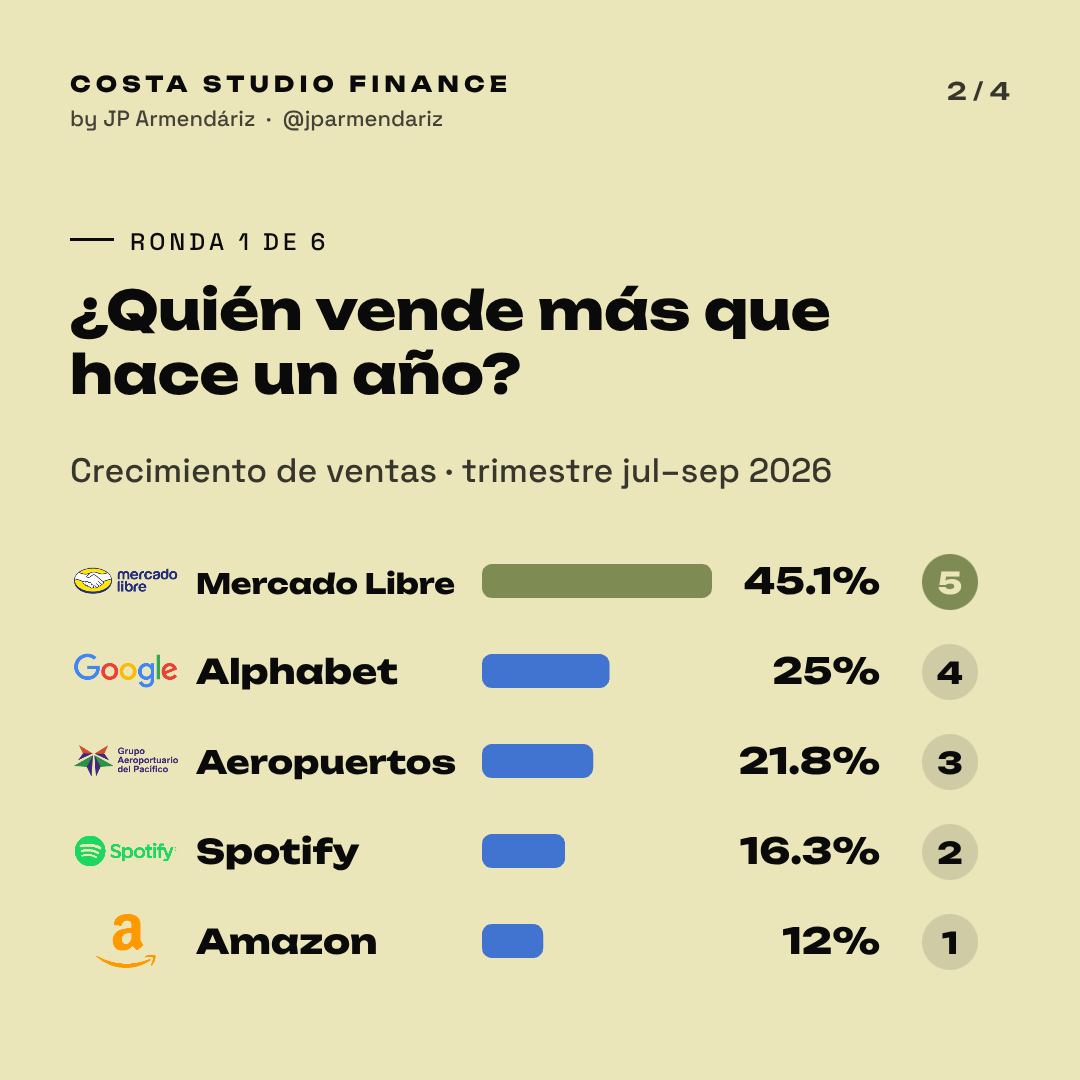
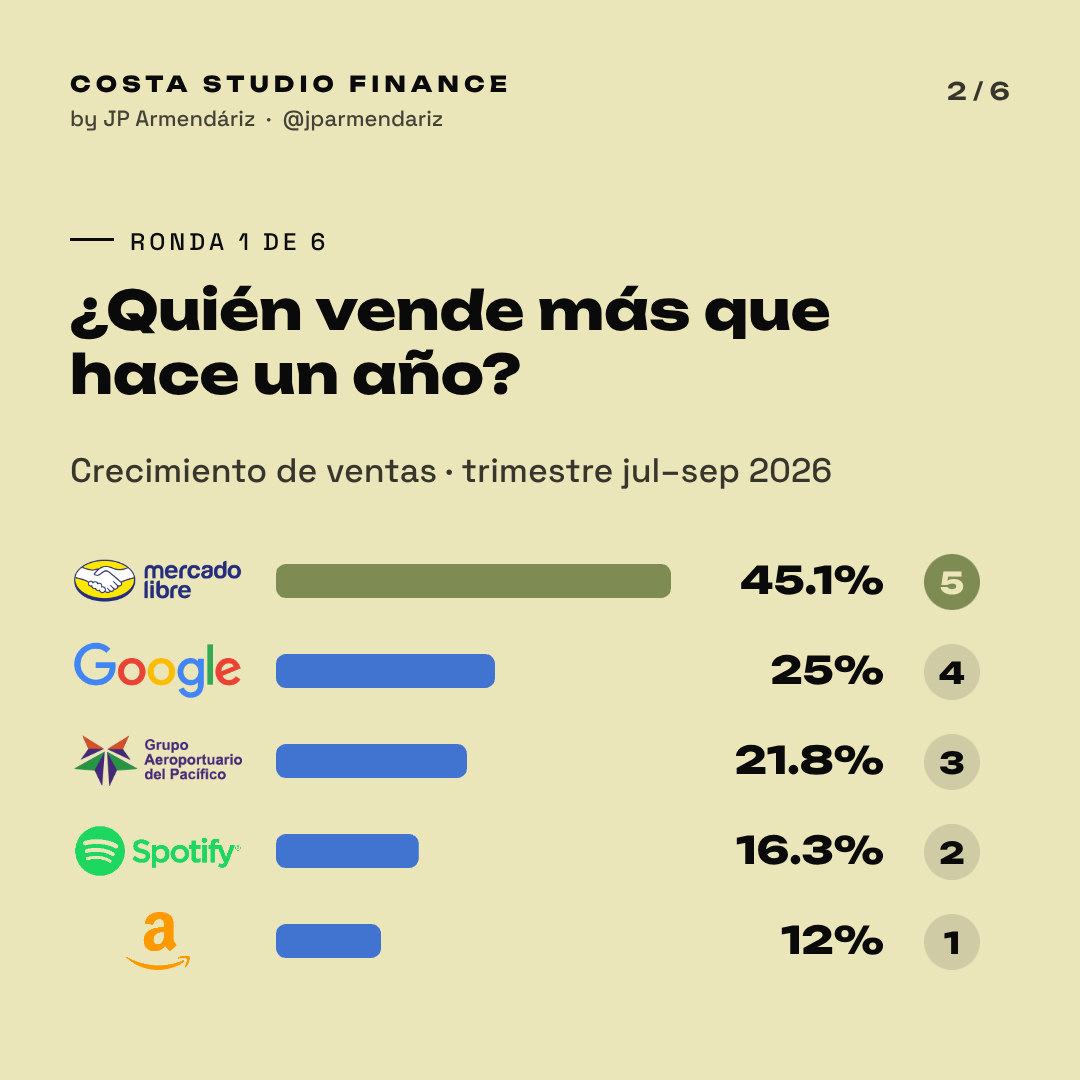
Publicacion del torneo: 6 laminas, sin nombres repetidos y con conclusion
JP: los logos van debajo del subtitulo, los nombres se encimaban con las
barras y faltaba un cierre.

- Fuera los nombres de las filas: el logo identifica y la barra queda
  limpia. El logo crece y la barra se alarga.
- La portada pone los cinco logos debajo de '6 rondas, un ganador',
  terminando antes de JP.
- De 4 a 6 laminas: portada, ronda 1, ronda 3, ronda 5, tabla final y una
  de conclusion con el remate del video.

Claude-Session: https://claude.ai/code/session_01FvjQ3qKsfHX4rzw8jtw3Rk

diff --git a/finance-videos/engine/post.html b/finance-videos/engine/post.html
@@ -35,9 +35,9 @@ window.drawSlide = async ({ s, i, n, brand, image, logo, logos, series, sources 
   let y = 250;
   if (s.kicker) { C.fillStyle = ink; C.fillRect(70, y - 12, 44, 3); T(s.kicker.toUpperCase(), 130, y, { s: 24, ls: 4, c: ink }); y += 80; }
   if (s.type === 'portada') {
-    if (LG.length) { const cw = 940 / LG.length; LG.forEach((a, k) => fitIn(a, 70 + cw * k, y - 20, cw - 16, 104)); y += 150; }
     y = para(s.title, 70, y + 30, { f: F.d, w: 800, s: s.size || 84, c: ink }, 940, (s.size || 84) * 1.14) + 20;
-    if (s.sub) para(s.sub, 70, y + 20, { s: 42, c: ink, a: .92 }, 720, 54);
+    if (s.sub) y = para(s.sub, 70, y + 20, { s: 42, c: ink, a: .92 }, 720, 54);
+    if (LG.length) { const cw = 730 / LG.length; LG.forEach((a, k) => fitIn(a, 70 + cw * k + 6, y + 54, cw - 18, 92)); }   // acaba antes de JP
   } else if (s.type === 'dato') {
     if (s.title) y = para(s.title, 70, y, { f: F.d, w: 800, s: 54, c: ink }, 940, 64) + 10;
     if (s.big) { let sz = 210; while (tw(s.big, { f: F.d, w: 800, s: sz }) > 940 && sz > 90) sz -= 10; T(s.big, 70, y + sz * .82, { f: F.d, w: 800, s: sz, c: s.tone === 'down' ? B.terracota : s.tone === 'up' ? (dark ? '#DDE8B8' : B.musgo) : (dark ? B.arena : B.azul) }); y += sz + 40; }
@@ -52,14 +52,12 @@ window.drawSlide = async ({ s, i, n, brand, image, logo, logos, series, sources 
     const H = Math.min(92, (986 - y) / Math.max(1, rows.length));
     rows.forEach((r, k) => {
       const ry = y + 14 + k * H, win = r.points === 5, a = LG[r.logo_i];
-      if (a) fitIn(a, 74, ry + 4, 104, 54);
-      let ns = 34; while (tw(r.name, { f: F.d, w: 800, s: ns }) > 262 && ns > 20) ns -= 2;
-      T(r.name, 196, ry + 44, { f: F.d, w: 800, s: ns, c: ink });
-      const bw = Math.max(6, 230 * (Math.abs(r.value) / mx));
-      C.beginPath(); C.roundRect(482, ry + 14, bw, 34, 10); C.fillStyle = win ? B.musgo : B.azul; C.fill();
-      T(r.text || (r.value + (s.suffix || '')), 880, ry + 44, { f: F.d, w: 800, s: 36, al: 'right', c: ink });
-      C.beginPath(); C.arc(950, ry + 32, 28, 0, 7); C.fillStyle = win ? B.musgo : 'rgba(10,10,10,.12)'; C.fill();
-      T(String(r.points), 950, ry + 44, { f: F.d, w: 800, s: 30, al: 'center', c: win ? B.arena : ink });
+      if (a) fitIn(a, 74, ry + 2, 168, 58);   // sin nombre: el logo identifica (JP, 15 nov 2026)
+      const bw = Math.max(8, 395 * (Math.abs(r.value) / mx));
+      C.beginPath(); C.roundRect(276, ry + 14, bw, 34, 10); C.fillStyle = win ? B.musgo : B.azul; C.fill();
+      T(r.text || (r.value + (s.suffix || '')), 884, ry + 44, { f: F.d, w: 800, s: 38, al: 'right', c: ink });
+      C.beginPath(); C.arc(952, ry + 32, 28, 0, 7); C.fillStyle = win ? B.musgo : 'rgba(10,10,10,.12)'; C.fill();
+      T(String(r.points), 952, ry + 44, { f: F.d, w: 800, s: 30, al: 'center', c: win ? B.arena : ink });
     });
 
   } else if (s.type === 'grafica') {

diff --git a/finance-videos/videos/2026-11-15-TOP5-ingresos/youtube.md b/finance-videos/videos/2026-11-15-TOP5-ingresos/youtube.md
@@ -54,8 +54,9 @@ Mercado Libre gana la ronda de ventas por mucho… y termina última. Eso solo s
 Hoy subí un video de 7 minutos donde te enseño a leer un estado de resultados de arriba a abajo, con Apple: <LIGA>
 ```
 
-## 📌 Publicación — 4 imágenes
-`post/01.png` … `post/04.png`; texto en `post/publicacion.md`.
+## 📌 Publicación — 6 imágenes
+`post/01.png` … `post/06.png`; texto en `post/publicacion.md`. Portada · ronda 1 (ventas) · ronda 3 (margen) · ronda 5 (deuda) · tabla final · conclusión.
+⚠ YouTube puede limitar el carrusel a 5 imágenes: si no te deja subir las 6, quita la de margen (`03.png`).
 
 ## Las seis rondas y sus puntos
 | | Ventas | Util. oper. | Margen | ROE | Deuda | PEG | **Total** |

diff --git a/finance-videos/videos/2026-11-15-TOP5-ingresos/post/publicacion.md b/finance-videos/videos/2026-11-15-TOP5-ingresos/post/publicacion.md
@@ -28,7 +28,7 @@ Contenido educativo. No es asesoría financiera. Costa Studio Finance, by JP Arm
 #inversiones #bolsa #Alphabet #MercadoLibre #Amazon
 ```
 
-Imágenes (en este orden): 01.png, 02.png, 03.png, 04.png
+Imágenes (en este orden): 01.png, 02.png, 03.png, 04.png, 05.png, 06.png
 
 ## Cómo publicarla
 YouTube → Crear → Crear publicación → Imagen → sube las imágenes en orden → pega el texto → Publicar.
